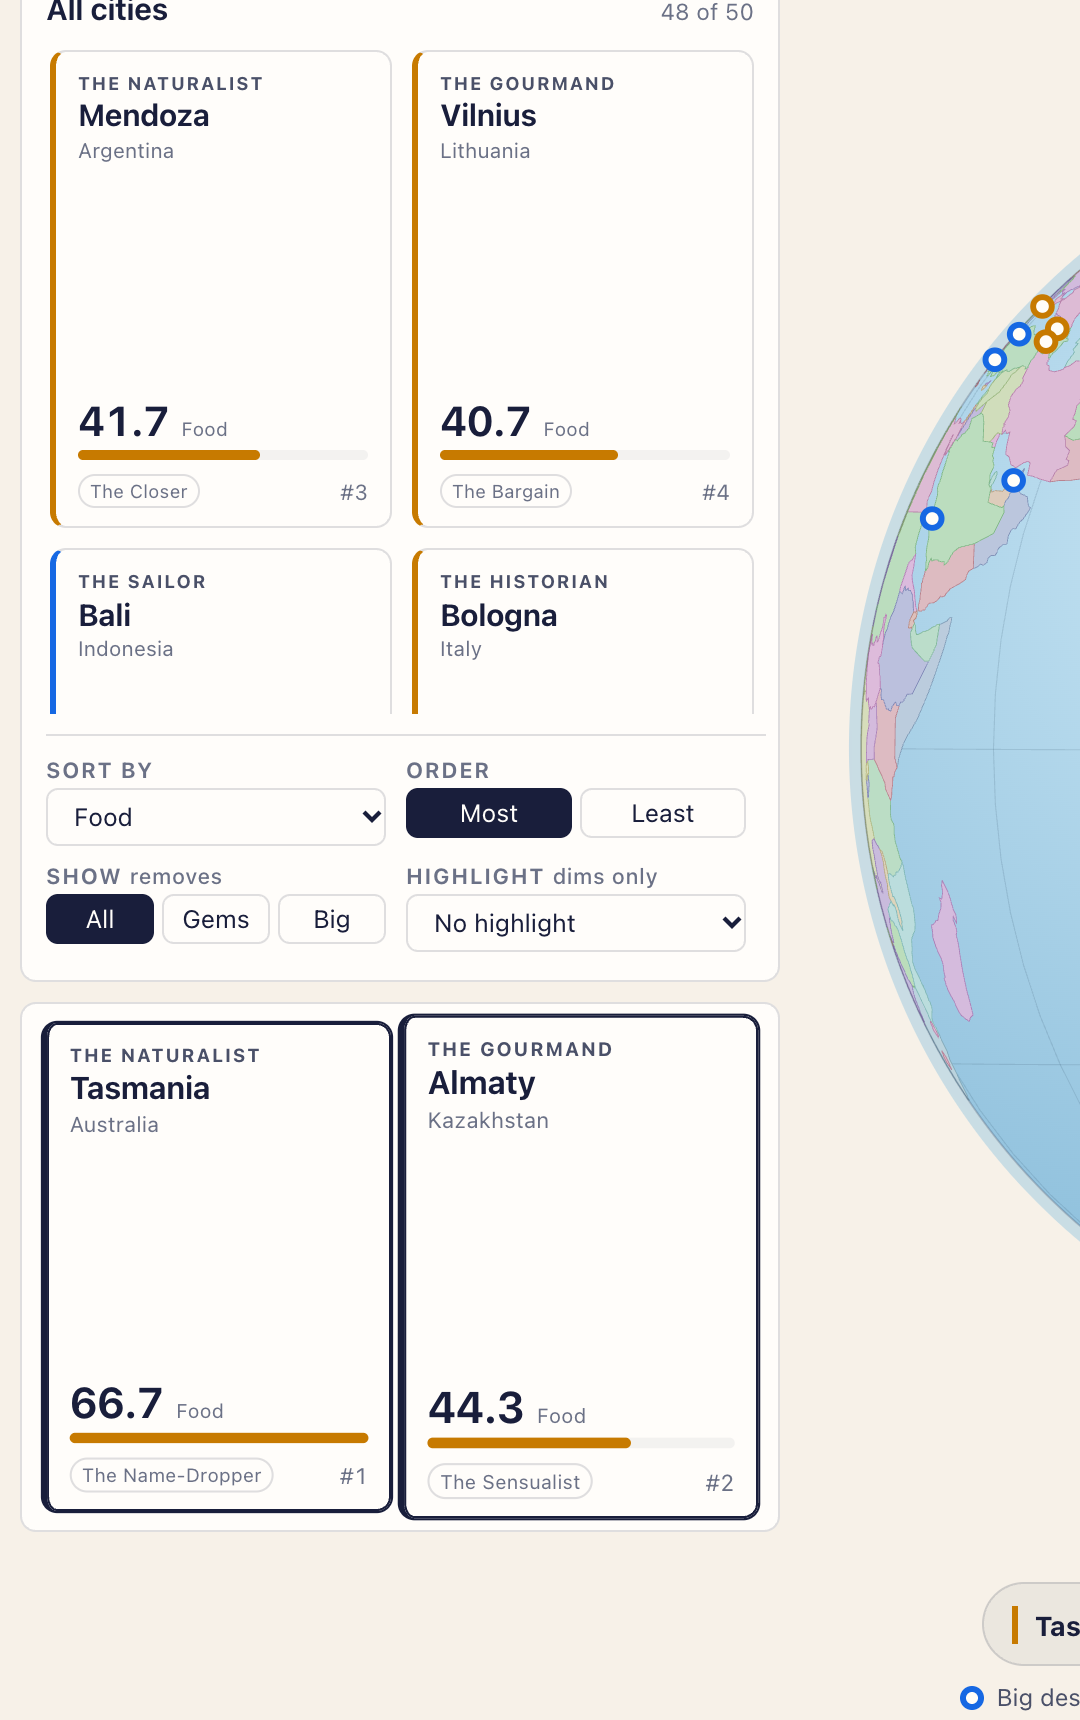
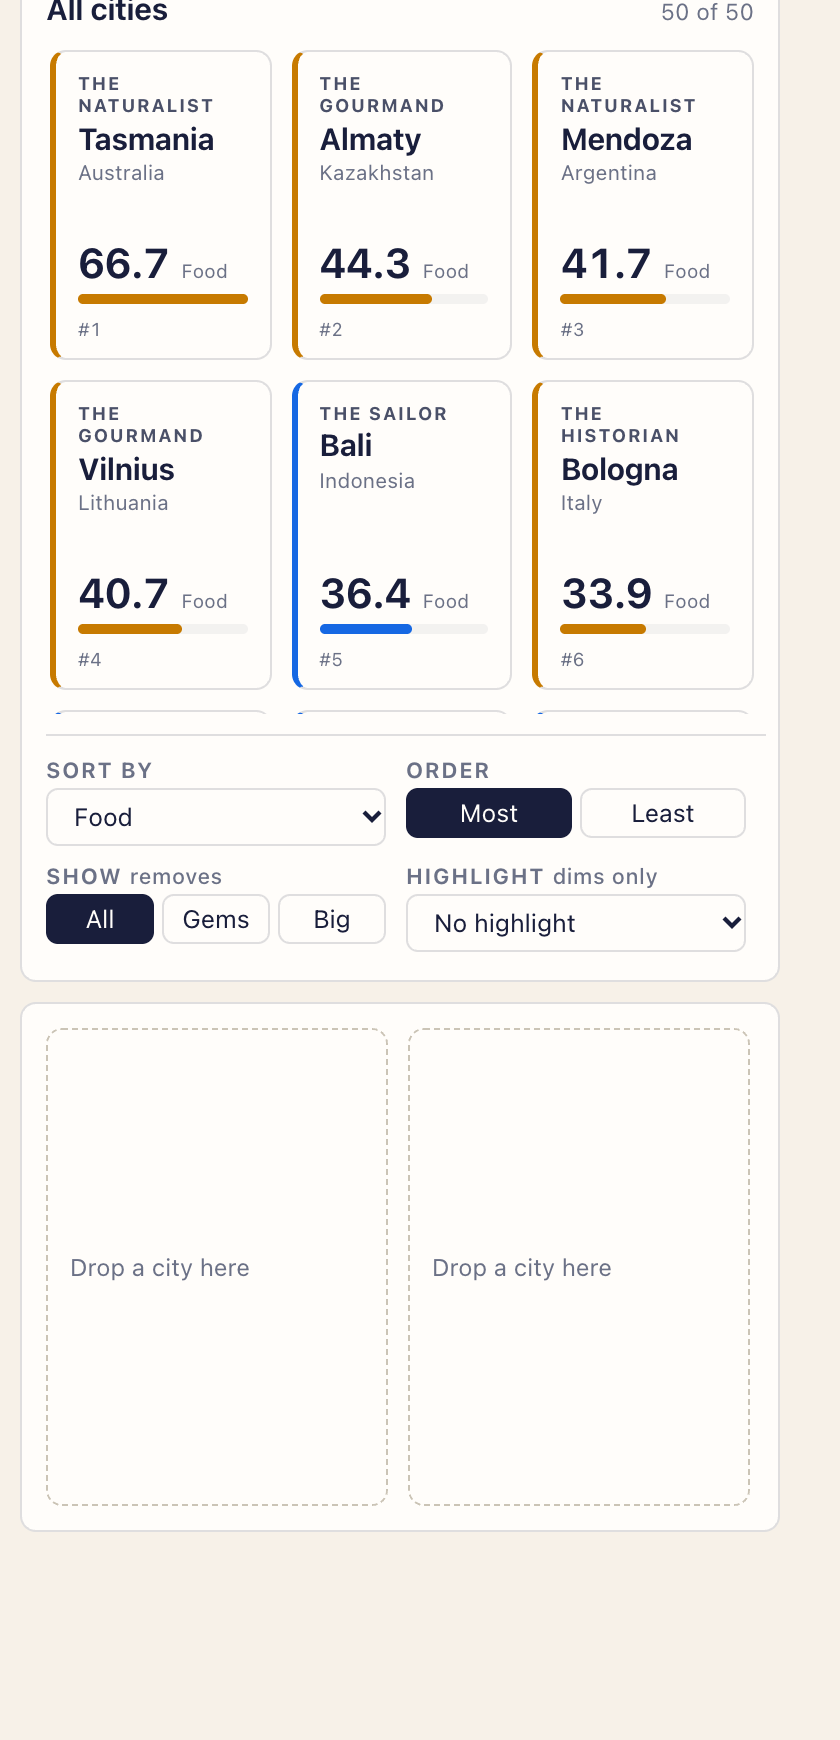
prototype B: smaller deck cards, three to a row
Cards drop from 171x239 to 111x155 — still 0.71, playing-card
proportions — and the rail now fits three to a row. Nine cards are
readable without scrolling, against two before.

The card sizes its own type against its own width with a container
query, so the same component is a small deck card at 111px and a full
one at 171px in a drop slot, with no second variant to keep in sync.
Below 140px the personality chip is dropped: there is no room for it
and the archetype is the headline.

40/40 interaction checks pass, no console errors.

diff --git a/src/lib/CityCard.svelte b/src/lib/CityCard.svelte
@@ -164,12 +164,28 @@
     color: var(--text-secondary);
   }
 
-  /* Portrait: playing-card proportions, read top to bottom. */
+  /* Portrait: playing-card proportions, read top to bottom. The card sizes
+     its own type against its width, so the same component works as a small
+     deck card and as a larger one sitting in a drop slot. */
   .card.portrait {
     aspect-ratio: 5 / 7;
     gap: 0;
     padding: 10px 11px 9px;
     justify-content: space-between;
+    container-type: inline-size;
+  }
+
+  @container (max-width: 140px) {
+    .card.portrait { padding: 7px 8px 6px; }
+    .card.portrait .type { font-size: 0.5rem; letter-spacing: 0.05em; }
+    .card.portrait h3 { font-size: 0.78rem; }
+    .card.portrait .country { font-size: 0.58rem; }
+    .card.portrait .value strong { font-size: 1.02rem; }
+    .card.portrait .unit { font-size: 0.54rem; }
+    .card.portrait .rank { font-size: 0.58rem; }
+    /* No room for the personality at this size; the archetype is the headline. */
+    .card.portrait .chip { display: none; }
+    .pfoot { justify-content: flex-end; margin-top: 5px; }
   }
   .card.portrait .type {
     font-size: 0.57rem;
@@ -177,7 +193,10 @@
     letter-spacing: 0.08em;
   }
   .card.portrait .face { margin-top: 2px; }
-  .card.portrait h3 { font-size: 0.95rem; line-height: 1.15; }
+  .card.portrait h3 {
+    font-size: 0.95rem; line-height: 1.15;
+    overflow-wrap: anywhere;
+  }
   .card.portrait .country { font-size: 0.65rem; margin-top: 2px; }
   .card.portrait .value { margin-top: auto; align-items: baseline; }
   .card.portrait .value strong { font-size: 1.3rem; }

diff --git a/src/routes/prototype-b/+page.svelte b/src/routes/prototype-b/+page.svelte
@@ -435,8 +435,8 @@
     border: 1px solid var(--border);
     border-radius: var(--radius);
     padding: 12px 6px 12px 12px;
-    /* Two playing-card columns in the rail. */
-    --card-min: 150px;
+    /* Three small playing cards to a row. */
+    --card-min: 100px;
   }
   .inv-head {
     display: flex; align-items: baseline; justify-content: space-between;
